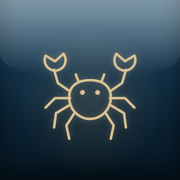
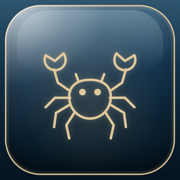
Ícone: vidro, cantos arredondados, filete dourado e luz do alto à esquerda

diff --git a/index.html b/index.html
@@ -1,6 +1,6 @@
 <!doctype html><html lang="pt-BR"><head><meta charset="utf-8"><meta name="viewport" content="width=device-width,initial-scale=1,viewport-fit=cover"><meta name="description" content="Skillarium: skills de IA testadas, prontas para colar na sua IA. Tested AI skills, ready to paste into your AI.">
 <title>Skillarium</title>
-<link rel="apple-touch-icon" sizes="180x180" href="apple-touch-icon.png">
+<link rel="apple-touch-icon" sizes="180x180" href="apple-touch-icon.png?v=2">
 <link rel="icon" type="image/png" sizes="192x192" href="icone-192.png">
 <link rel="manifest" href="manifest.webmanifest">
 <meta name="apple-mobile-web-app-title" content="Skillarium">
